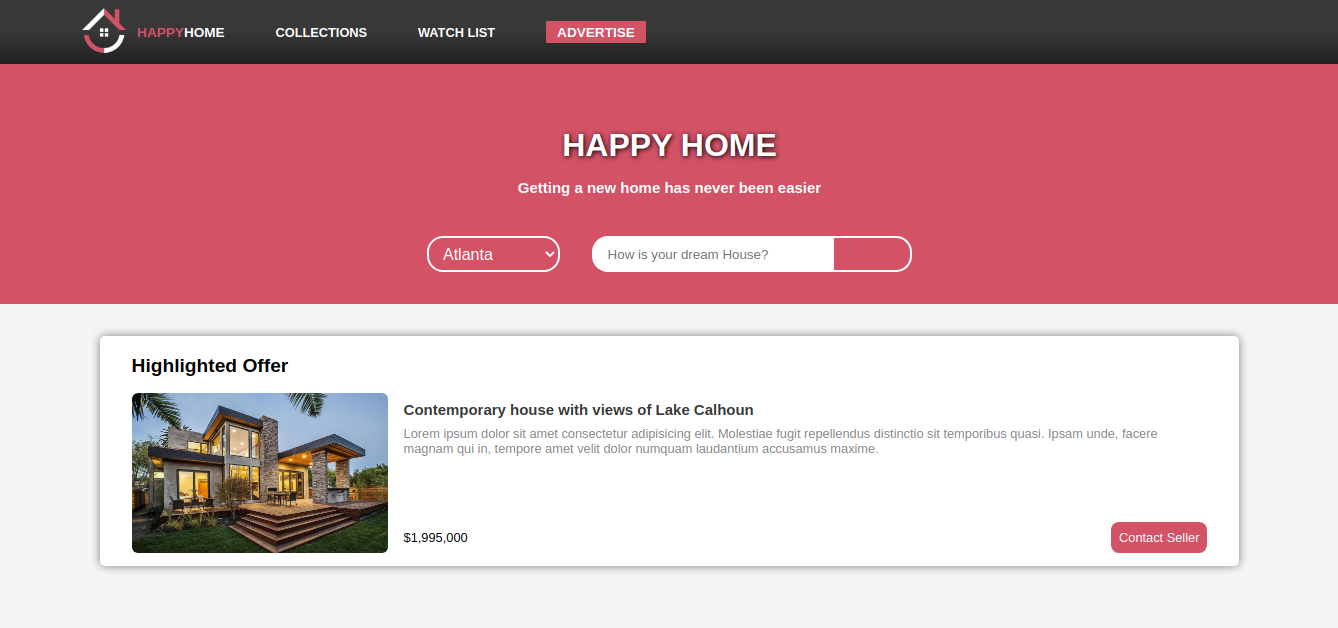
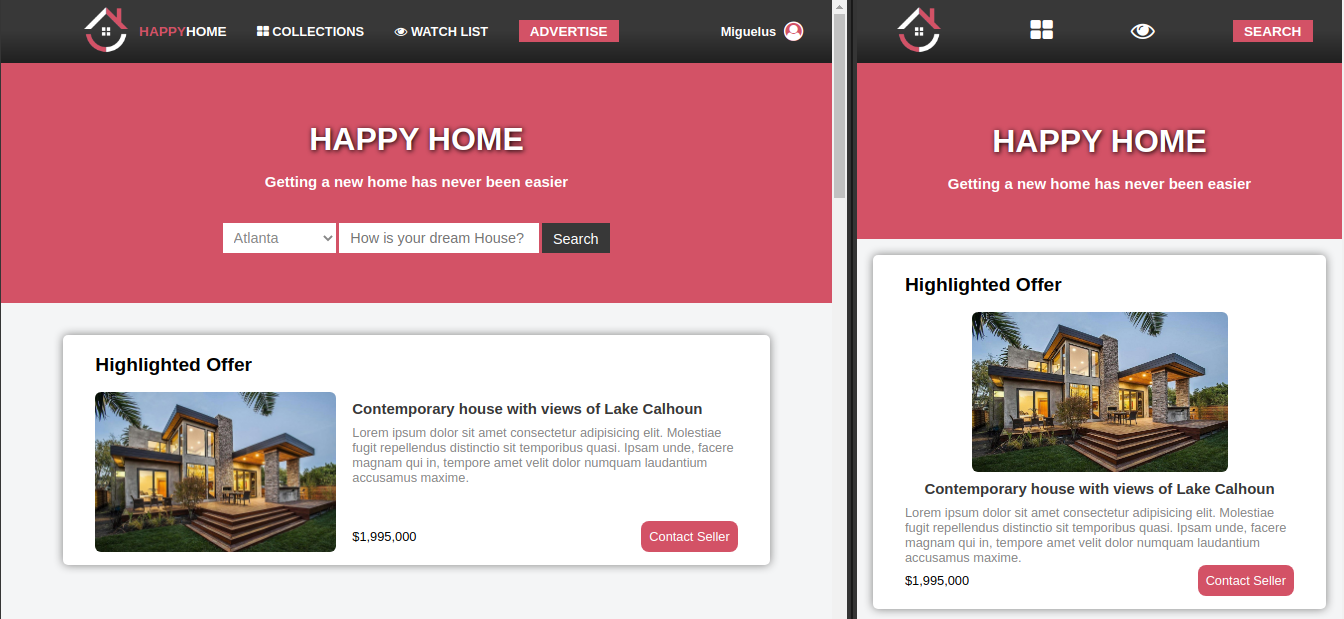
Update Readme

diff --git a/README.md b/README.md
@@ -1,6 +1,9 @@
-# Capstone Project | Happy Home
+# Happy Home
 
-This is the capstone project for the Html and Css curriculum of the Microverse full time program. I made a Real State online shop page.
+This is a Real State online shopping page, made as the capstone project for Microverse.
+
+> In this project I used different technologies such as flexbox and grid to position the different elements on the page.
+> I also used Media Querys to add responsiveness in three different device sizes.
 
 ![screenshot](./images/Screenshot.png)
 
